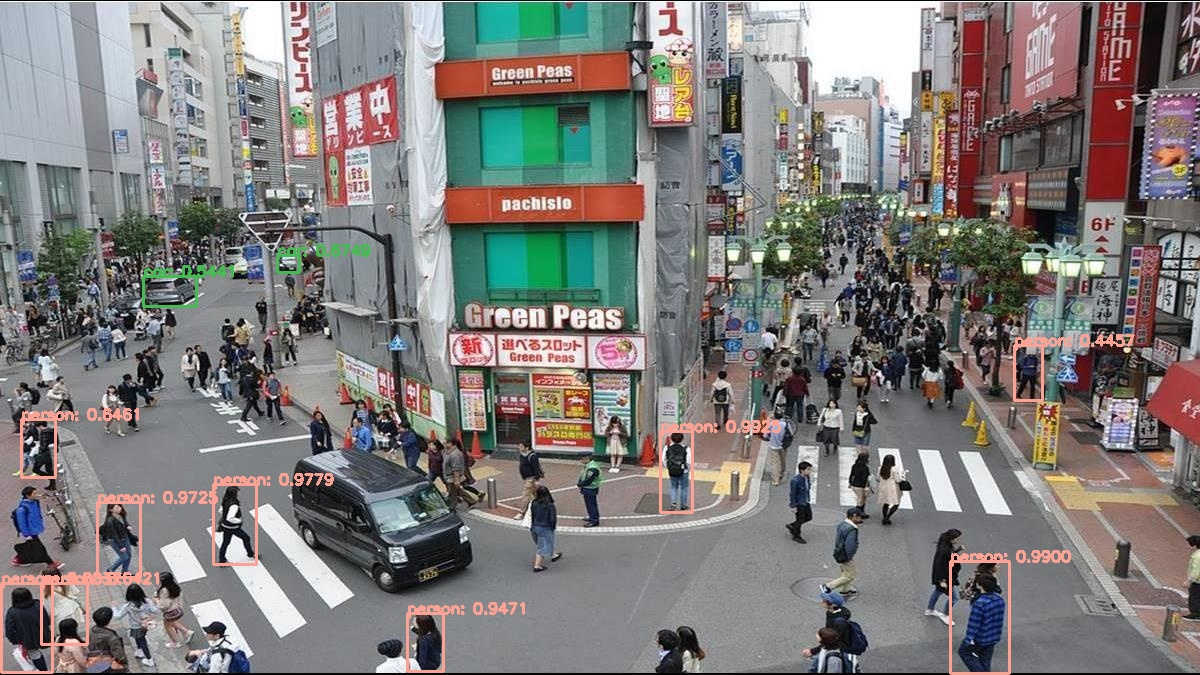
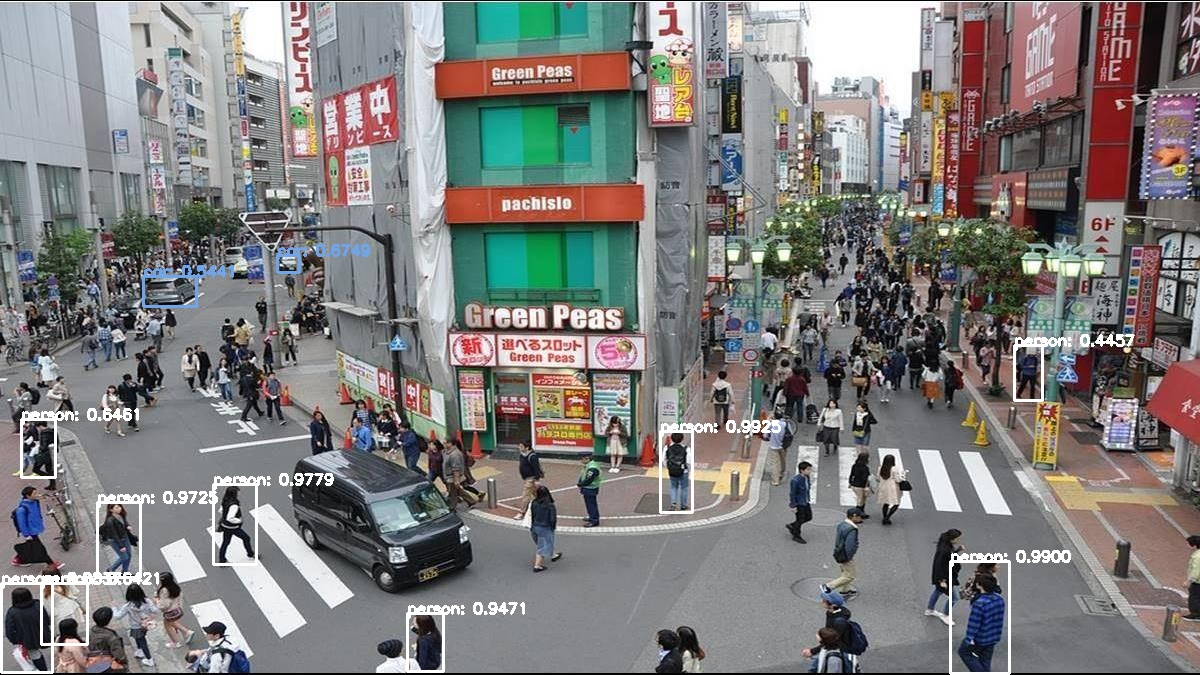
update

diff --git a/models/CVModel/CVModel.py b/models/CVModel/CVModel.py
@@ -48,14 +48,38 @@ class CVModel(ABC):
 
 ### 改成只針對yolo的結果
 class DetectResult:
-	def __init__(self, image, classIDs = [], boxes = [], confidences = []):
-		if not(isinstance(boxes, list) and isinstance(confidences, list) and isinstance(classIDs, list)):
-			raise DetectResultErrors.ArgumentTypeError(classIDs, boxes, confidences, list)
+	def __init__(self, image, labels = [], threshold = 0.2, confidence = 0.2):
+		# if not(isinstance(boxes, list) and isinstance(confidences, list) and isinstance(classIDs, list)):
+		# 	raise DetectResultErrors.ArgumentTypeError(classIDs, boxes, confidences, list)
 		self.image = image
-		self.boxes = boxes
-		self.confidences = confidences
-		self.classIDs = classIDs
-	
+		self.labels = labels
+		self.threshold = threshold
+		self.confidence = confidence
+		self.boxes = []
+		self.confidences = []
+		self.classIDs = []
+		self.autoSelectColors()
+
+	def autoSelectColors(self):
+		self.colors = np.random.randint(0, 255, size = (len(self.labels), 3), dtype = "uint8")
+
+	def setColor(self, index, color):
+		if not isinstance(index, (int, str)) and isinstance(color, (list, tuple)):
+			raise TypeError
+		if len(color) != 3:
+			raise ValueError("color 長度不為 3")
+		if type(index) is str:
+			try:
+				index = self.labels.index(index)
+			except ValueError:
+				raise ValueError("沒有此 label")
+		for c in color:
+			if c < 0:
+				c = 0
+			elif c > 255:
+				c = 255
+		self.colors[index] = color
+
 	# 添加結果
 	def add(self, classID, box, confidence):
 		self.boxes.append(box)
@@ -72,15 +96,15 @@ class DetectResult:
 		return croppedImage[p1y:p2y, p1x:p2x]
 	
 	def display(self):
-		header = ['Index', 'ClassID', 'Box', 'Confidence']
-		rowFormat = '{!s:15} {!s:15} {!s:30} {!s:15}'
+		header = ['Index', 'Label', 'ClassID', 'Box', 'Confidence']
+		rowFormat = '{!s:15} {!s:20} {!s:10} {!s:30} {!s:20}'
 		print(rowFormat.format(*header))
 		for i in range(0, len(self.classIDs)):
-			print(rowFormat.format(i, self.classIDs[i], self.boxes[i], self.confidences[i]))
+			print(rowFormat.format(i, self.labels[self.classIDs[i]], self.classIDs[i], self.boxes[i], self.confidences[i]))
 
-	def drawBoxes(self, threshold = 0.2, confidence = 0.2):
+	def drawBoxes(self):
 		resultImage = self.image.copy()
-		idxs = cv2.dnn.NMSBoxes(self.boxes, self.confidences, confidence, threshold)
+		idxs = cv2.dnn.NMSBoxes(self.boxes, self.confidences, self.confidence, self.threshold)
 		if len(idxs) > 0:
 			for i in idxs.flatten():
 				p1x, p1y, p2x, p2y = self.boxes[i]

diff --git a/models/YoloModel/YoloModel.py b/models/YoloModel/YoloModel.py
@@ -16,7 +16,9 @@ class YoloModel(CVModel):
 		self.minConfidence = minConfidence
 		## TODO error handling
 		self.labels = open(self.namesPath).read().strip().split('\n')
-		self.colors = np.random.randint(0, 255, size = (len(self.labels), 3), dtype = "uint8")
+
+		# self.colors = np.random.randint(0, 255, size = (len(self.labels), 3), dtype = "uint8")
+
 		self.net = cv2.dnn.readNetFromDarknet(self.configPath, self.weightsPath)
 		self.outputLayerNames = [self.net.getLayerNames()[i[0] - 1] for i in self.net.getUnconnectedOutLayers()]
 		print("[INFO] Loaded YOLO Model!")
@@ -32,7 +34,7 @@ class YoloModel(CVModel):
 		return [p1x, p1y, p2x, p2y]
 
 	def detectImage(self, image):
-		result = DetectResult(image)
+		result = DetectResult(image, labels=self.labels)
 		( H, W ) = image.shape[:2]
 		blob = cv2.dnn.blobFromImage(image, 1 / 255, (416, 416), swapRB = True, crop = False)
 		self.net.setInput(blob)
@@ -53,8 +55,10 @@ class YoloModel(CVModel):
 	def drawBoxes(self, detectResult, threshold = 0.2, confidence = 0.2):
 		resultImage = detectResult.image.copy()
 		idxs = cv2.dnn.NMSBoxes(detectResult.boxes, detectResult.confidences, confidence, threshold)
+		print("iiiiiiiiiiiiiiiiiiiii", idxs)
 		if len(idxs) > 0:
 			for i in idxs.flatten():
+				print("iiiiiiiiiiiiiiiiiiiii", i)
 				p1x, p1y, p2x, p2y = detectResult.boxes[i]
 				color = [int(c) for c in self.colors[detectResult.classIDs[i]]]
 				cv2.rectangle(resultImage, (p1x, p1y), (p2x, p2y), color, 2)

diff --git a/main.py b/main.py
@@ -235,8 +235,10 @@ if __name__ == '__main__':
 	image = cv2.imread("/content/gdrive/MyDrive/image/2.jpg")
 	detectResult = yoloModel.detectImage(image)
 	detectResult.display()
-	resultImage = yoloModel.drawBoxes(detectResult)
-	# resultImage =  detectResult.drawBoxes()
+	detectResult.setColor(0, [255, 255])
+	resultImage = detectResult.drawBoxes()
 	cv2.imwrite("/content/TrafficPolice/store/output/1.jpg", resultImage)
+	
+	# video = cv2.VideoCapture("/content/gdrive/MyDrive/video/直行09-(116KJT，174407-174409).mp4")
 	
 
